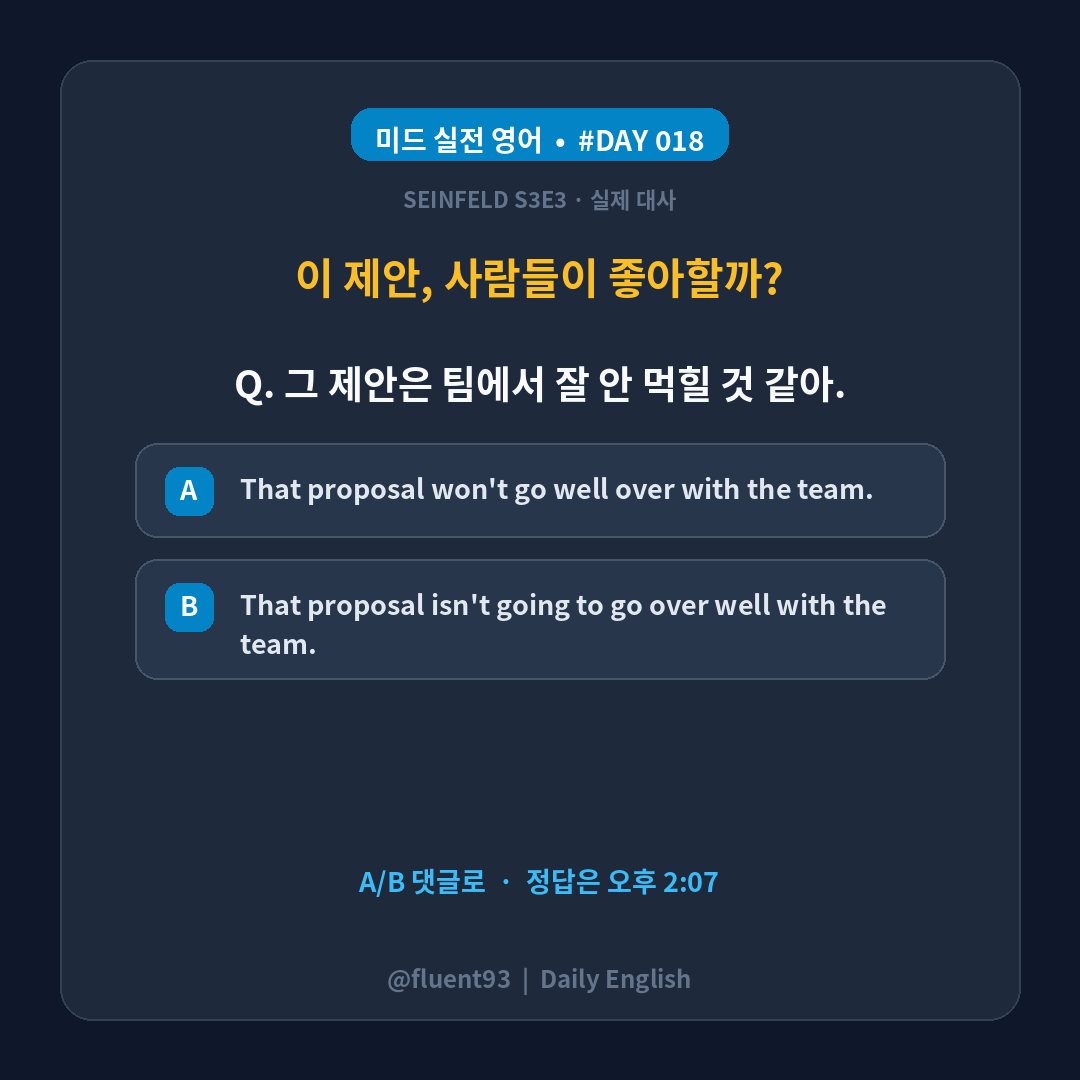
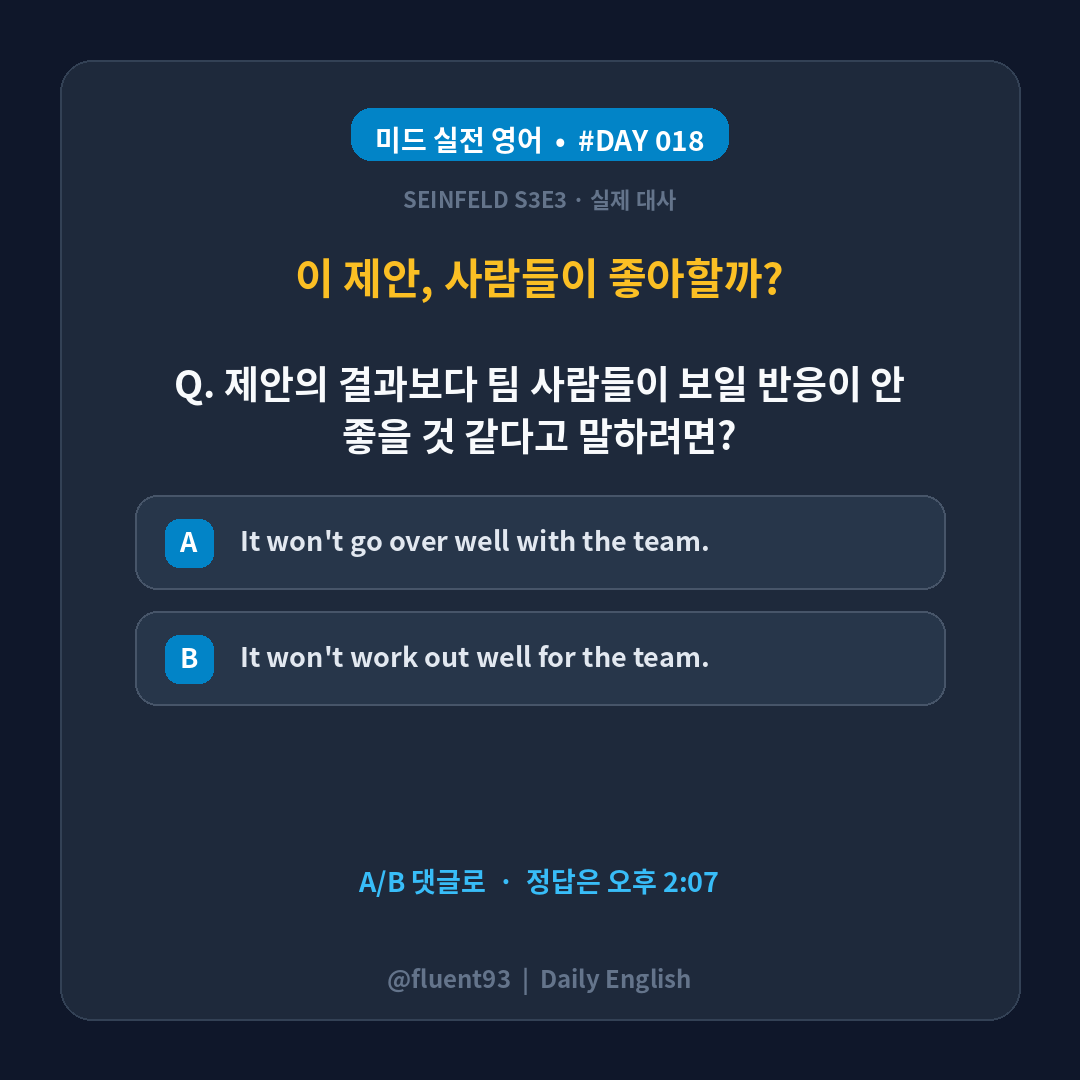
content: replace grammar traps with contextual choices

Changed region(s): [[0.1222, 0.3361, 0.8861, 0.6417], [0.8556, 0.6111, 0.8861, 0.6417]]

diff --git a/scripts/content_validation.py b/scripts/content_validation.py
@@ -14,6 +14,7 @@ from PIL import Image
 MAX_POST_CHARS = 500
 EXPECTED_IMAGE_SIZE = (1080, 1080)
 MAX_IMAGE_BYTES = 8 * 1024 * 1024
+ALLOWED_QUIZ_FOCUS = {"context", "nuance", "register", "collocation", "grammar"}
 KNOWN_TYPO_TOKENS = ("쯙", "살짙", "초근무")
 PLACEHOLDER_RE = re.compile(
     r"\[[^\]]+\]|~(?:ing)?|\((?:someone|something|one's|my/your|it/that)[^)]*\)",
@@ -116,6 +117,16 @@ def _validate_choice_quiz(item: dict, label: str, by_type: dict) -> list[str]:
     answer_choice = item.get("answer_choice")
     if answer_choice not in {"A", "B"}:
         errors.append(f"{label}: answer_choice는 A 또는 B여야 합니다.")
+    quiz_focus = item.get("quiz_focus")
+    if quiz_focus not in ALLOWED_QUIZ_FOCUS:
+        errors.append(
+            f"{label}: quiz_focus는 {', '.join(sorted(ALLOWED_QUIZ_FOCUS))} 중 하나여야 합니다."
+        )
+    explanation = item.get("answer_explanation_ko")
+    if isinstance(explanation, str) and not all(
+        marker in explanation for marker in ("A는", "B는")
+    ):
+        errors.append(f"{label}: 해설은 A와 B의 차이를 모두 설명해야 합니다.")
     required = all(
         isinstance(item.get(field), str) and item[field].strip()
         for field in ("hook_ko", "quiz_ko", "choice_a", "choice_b")
@@ -242,6 +253,8 @@ def validate_queue(
     warnings: list[str] = []
     days: list[int] = []
     phrases: dict[str, list[int]] = defaultdict(list)
+    choice_answers: list[str] = []
+    choice_focuses: list[str] = []
 
     for item in queue:
         item_errors, item_warnings = validate_item(item, images_dir=images_dir)
@@ -253,6 +266,9 @@ def validate_queue(
             phrase = item.get("phrase")
             if isinstance(phrase, str) and phrase.strip():
                 phrases[normalized_phrase(phrase)].append(day)
+            if get_quiz_spec(item)["mode"] == "choice":
+                choice_answers.append(str(item.get("answer_choice")))
+                choice_focuses.append(str(item.get("quiz_focus")))
 
     expected_days = list(range(1, len(queue) + 1))
     if days != expected_days:
@@ -265,6 +281,19 @@ def validate_queue(
         if normalized and len(duplicate_days) > 1:
             errors.append(
                 f"중복 표현이 있습니다: Day {', '.join(map(str, duplicate_days))}"
+            )
+
+    if choice_answers:
+        answer_gap = abs(choice_answers.count("A") - choice_answers.count("B"))
+        if answer_gap > 2:
+            errors.append(
+                "A/B 정답 위치가 편향되어 있습니다 "
+                f"(A {choice_answers.count('A')}개, B {choice_answers.count('B')}개)."
+            )
+        grammar_ratio = choice_focuses.count("grammar") / len(choice_focuses)
+        if len(choice_focuses) >= 10 and grammar_ratio > 0.2:
+            errors.append(
+                f"단순 문법형 A/B 문제가 {grammar_ratio:.0%}로 20%를 초과합니다."
             )
 
     return errors, warnings

diff --git a/tests/test_content_validation.py b/tests/test_content_validation.py
@@ -36,7 +36,8 @@ def make_delayed_item(day: int = 1) -> dict:
             "choice_a": "Sounds good.",
             "choice_b": "Sounds well.",
             "answer_choice": "A",
-            "answer_explanation_ko": "good은 형용사이고 well은 보통 부사입니다.",
+            "quiz_focus": "nuance",
+            "answer_explanation_ko": "A는 평가를 말하고, B는 행동 방식을 말합니다.",
         }
     )
     return value
@@ -90,6 +91,12 @@ class ContentValidationTests(unittest.TestCase):
         self.assertNotIn("sample", build_quiz_prompt(item))
         errors, _ = validate_queue([item])
         self.assertEqual(errors, [])
+
+    def test_rejects_one_sided_choice_explanation(self):
+        item = make_delayed_item()
+        item["answer_explanation_ko"] = "A가 맞습니다."
+        errors, _ = validate_queue([item])
+        self.assertIn("A와 B의 차이", "\n".join(errors))
 
 
 if __name__ == "__main__":

diff --git a/tests/test_publish_recovery.py b/tests/test_publish_recovery.py
@@ -31,7 +31,8 @@ def delayed_item() -> dict:
             "choice_a": "Sounds good.",
             "choice_b": "Sounds well.",
             "answer_choice": "A",
-            "answer_explanation_ko": "good은 형용사입니다.",
+            "quiz_focus": "nuance",
+            "answer_explanation_ko": "A는 자연스럽고, B는 다른 뜻입니다.",
         }
     )
     return value
